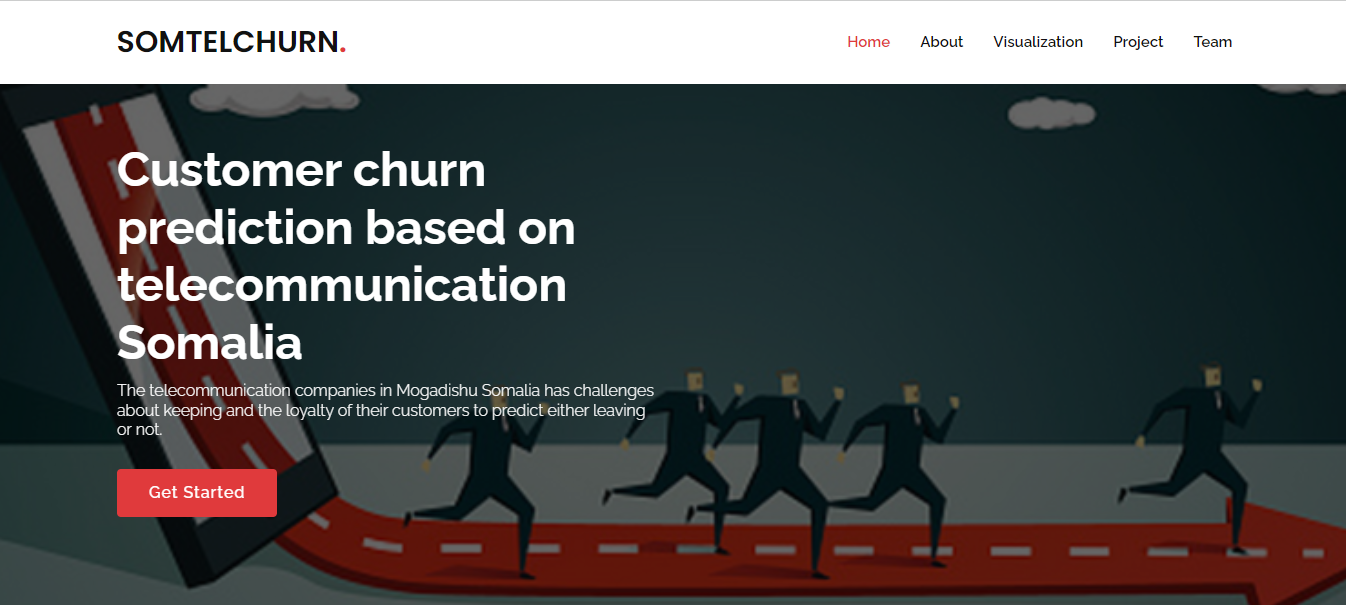
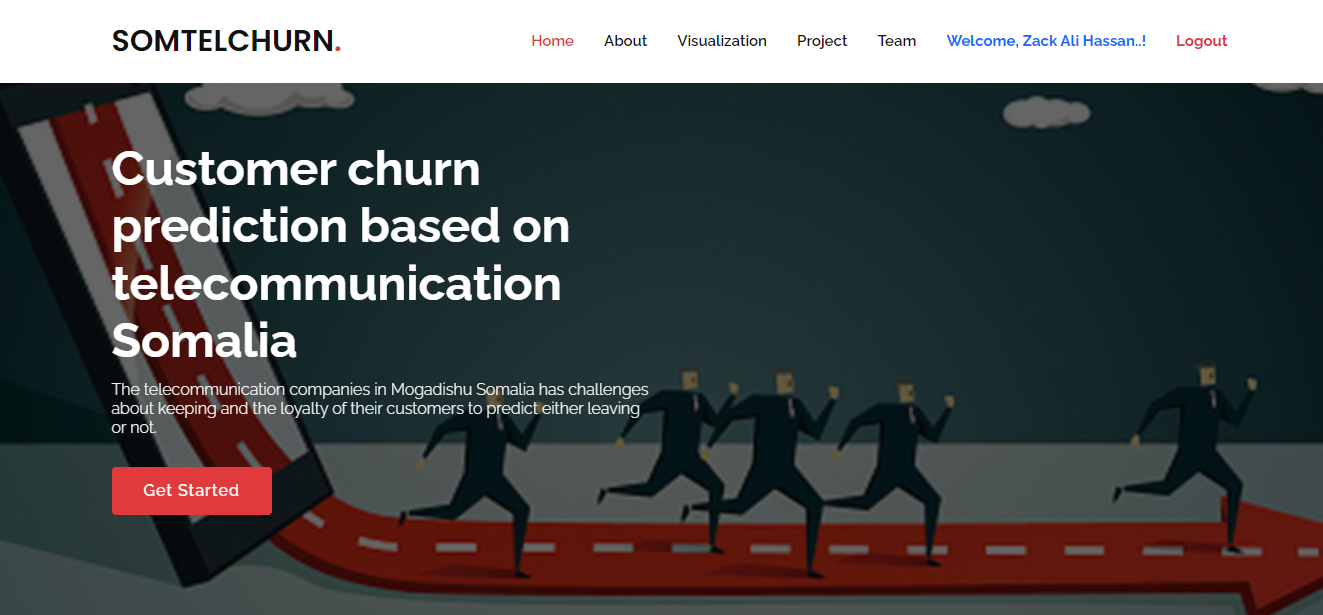
third commit in 14-may-2024

diff --git a/templates/index.html b/templates/index.html
@@ -45,6 +45,19 @@
           <li><a class="nav-link scrollto" href="#visualization">Visualization</a></li>
           <li><a class="nav-link scrollto" href="#project">Project</a></li>
           <li><a class="nav-link scrollto" href="#team">Team</a></li>
+          {% if 'username' in session %}
+          <li class="">
+            <a class="nav-link text-primary fw-bold" href="#">Welcome, {{ session['username'][0:15] }}..!</a>
+          </li>
+          <li class="">
+            <a class="nav-link text-danger fw-bold" href="{{ url_for('logout') }}"></i>
+              Logout</a>
+          </li>
+          {% else %}
+          <li class="nav-item">
+            <a class="nav-link text-primary scrollto fw-bold" href="{{ url_for('login') }}">Login</a>
+          </li>
+          {% endif %}
         </ul>
         <i class="bi bi-list mobile-nav-toggle"></i>
       </nav><!-- .navbar -->
@@ -106,88 +119,85 @@
       </div>
     </section>
     <!-- ======= Visualization Section ======= -->
-    <section id="visualization" class="visualization visual-image-container">
-      <div id="carouselExampleIndicators" class="carousel slide">
-        <div class="carousel-indicators">
-          <button type="button" data-bs-target="#carouselExampleIndicators" data-bs-slide-to="0" class="active"
-            aria-current="true" aria-label="Slide 1"></button>
-          <button type="button" data-bs-target="#carouselExampleIndicators" data-bs-slide-to="1"
-            aria-label="Slide 2"></button>
-          <button type="button" data-bs-target="#carouselExampleIndicators" data-bs-slide-to="2"
-            aria-label="Slide 3"></button>
-          <button type="button" data-bs-target="#carouselExampleIndicators" data-bs-slide-to="3"
-            aria-label="Slide 4"></button>
-          <button type="button" data-bs-target="#carouselExampleIndicators" data-bs-slide-to="4"
-            aria-label="Slide 5"></button>
-          <button type="button" data-bs-target="#carouselExampleIndicators" data-bs-slide-to="5"
-            aria-label="Slide 6"></button>
-          <button type="button" data-bs-target="#carouselExampleIndicators" data-bs-slide-to="6"
-            aria-label="Slide 7"></button>
-          <button type="button" data-bs-target="#carouselExampleIndicators" data-bs-slide-to="7"
-            aria-label="Slide 8"></button>
-          <button type="button" data-bs-target="#carouselExampleIndicators" data-bs-slide-to="8"
-            aria-label="Slide 9"></button>
-          <button type="button" data-bs-target="#carouselExampleIndicators" data-bs-slide-to="9"
-            aria-label="Slide 10"></button>
-          <button type="button" data-bs-target="#carouselExampleIndicators" data-bs-slide-to="10"
-            aria-label="Slide 11"></button>
-        </div>
-        <div class="carousel-inner visual-image">
-          <div class="carousel-item active">
-            <img src="../static/img/visualization/Accuracy Comparison of Supervised ML Algorithms.png"
-              class="d-block w-100" alt="...">
-          </div>
-          <div class="carousel-item">
-            <img src="../static/img/visualization/logistic_regression_confusion_matrix.png" class="d-block w-100"
-              alt="...">
-          </div>
-          <div class="carousel-item">
-            <img src="../static/img/visualization/svm_confusion_matrix.png" class="d-block w-100" alt="...">
-          </div>
-          <div class="carousel-item">
-            <img src="../static/img/visualization/random_forest_confusion_matrix.png" class="d-block w-100" alt="...">
-          </div>
-          <div class="carousel-item">
-            <img src="../static/img/visualization/decision_tree_confusion_matrix.png" class="d-block w-100" alt="...">
-          </div>
-          <div class="carousel-item">
-            <img src="../static/img/visualization/Churn by Monthly Charges.png" class="d-block w-100" alt="...">
-          </div>
-          <div class="carousel-item">
-            <img src="../static/img/visualization/Churn by Total Charges.png" class="d-block w-100" alt="...">
-          </div>
-          <div class="carousel-item">
-            <img src="../static/img/visualization/gender.png" class="d-block w-100" alt="...">
-          </div>
-          <div class="carousel-item">
-            <img src="../static/img/visualization/Contract.png" class="d-block w-100" alt="...">
-          </div>
-          <div class="carousel-item">
-            <img src="../static/img/visualization/SeniorCitizen.png" class="d-block w-100" alt="...">
-          </div>
-          <div class="carousel-item">
-            <img src="../static/img/visualization/PaymentMethod.png" class="d-block w-100" alt="...">
-          </div>
-        </div>
-        <button class="carousel-control-prev" type="button" data-bs-target="#carouselExampleIndicators"
-          data-bs-slide="prev">
-          <span class="carousel-control-prev-icon" aria-hidden="true"></span>
-          <span class="visually-hidden">Previous</span>
-        </button>
-        <button class="carousel-control-next" type="button" data-bs-target="#carouselExampleIndicators"
-          data-bs-slide="next">
-          <span class="carousel-control-next-icon" aria-hidden="true"></span>
-          <span class="visually-hidden">Next</span>
-        </button>
-      </div>
+    <section id="visualization" class="visualization section-bg">
       <div class="container" data-aos="fade-up">
-
-        <div class="row no-gutters">
-
-
-
+        <div class="section-title">
+          <h2>Visualization</h2>
+          <p>Customer churn prediction visualization images.</p>
         </div>
-
+        <div id="carouselExampleIndicators" class="carousel slide">
+          <div class="carousel-indicators">
+            <button type="button" data-bs-target="#carouselExampleIndicators" data-bs-slide-to="0" class="active"
+              aria-current="true" aria-label="Slide 1"></button>
+            <button type="button" data-bs-target="#carouselExampleIndicators" data-bs-slide-to="1"
+              aria-label="Slide 2"></button>
+            <button type="button" data-bs-target="#carouselExampleIndicators" data-bs-slide-to="2"
+              aria-label="Slide 3"></button>
+            <button type="button" data-bs-target="#carouselExampleIndicators" data-bs-slide-to="3"
+              aria-label="Slide 4"></button>
+            <button type="button" data-bs-target="#carouselExampleIndicators" data-bs-slide-to="4"
+              aria-label="Slide 5"></button>
+            <button type="button" data-bs-target="#carouselExampleIndicators" data-bs-slide-to="5"
+              aria-label="Slide 6"></button>
+            <button type="button" data-bs-target="#carouselExampleIndicators" data-bs-slide-to="6"
+              aria-label="Slide 7"></button>
+            <button type="button" data-bs-target="#carouselExampleIndicators" data-bs-slide-to="7"
+              aria-label="Slide 8"></button>
+            <button type="button" data-bs-target="#carouselExampleIndicators" data-bs-slide-to="8"
+              aria-label="Slide 9"></button>
+            <button type="button" data-bs-target="#carouselExampleIndicators" data-bs-slide-to="9"
+              aria-label="Slide 10"></button>
+            <button type="button" data-bs-target="#carouselExampleIndicators" data-bs-slide-to="10"
+              aria-label="Slide 11"></button>
+          </div>
+          <div class="carousel-inner visual-image">
+            <div class="carousel-item active">
+              <img src="../static/img/visualization/Accuracy Comparison of Supervised ML Algorithms.png"
+                class="d-block w-100" alt="...">
+            </div>
+            <div class="carousel-item">
+              <img src="../static/img/visualization/logistic_regression_confusion_matrix.png" class="d-block w-100"
+                alt="...">
+            </div>
+            <div class="carousel-item">
+              <img src="../static/img/visualization/svm_confusion_matrix.png" class="d-block w-100" alt="...">
+            </div>
+            <div class="carousel-item">
+              <img src="../static/img/visualization/random_forest_confusion_matrix.png" class="d-block w-100" alt="...">
+            </div>
+            <div class="carousel-item">
+              <img src="../static/img/visualization/decision_tree_confusion_matrix.png" class="d-block w-100" alt="...">
+            </div>
+            <div class="carousel-item">
+              <img src="../static/img/visualization/Churn by Monthly Charges.png" class="d-block w-100" alt="...">
+            </div>
+            <div class="carousel-item">
+              <img src="../static/img/visualization/Churn by Total Charges.png" class="d-block w-100" alt="...">
+            </div>
+            <div class="carousel-item">
+              <img src="../static/img/visualization/gender.png" class="d-block w-100" alt="...">
+            </div>
+            <div class="carousel-item">
+              <img src="../static/img/visualization/Contract.png" class="d-block w-100" alt="...">
+            </div>
+            <div class="carousel-item">
+              <img src="../static/img/visualization/SeniorCitizen.png" class="d-block w-100" alt="...">
+            </div>
+            <div class="carousel-item">
+              <img src="../static/img/visualization/PaymentMethod.png" class="d-block w-100" alt="...">
+            </div>
+          </div>
+          <button class="carousel-control-prev" type="button" data-bs-target="#carouselExampleIndicators"
+            data-bs-slide="prev">
+            <span class="carousel-control-prev-icon" aria-hidden="true"></span>
+            <span class="visually-hidden">Previous</span>
+          </button>
+          <button class="carousel-control-next" type="button" data-bs-target="#carouselExampleIndicators"
+            data-bs-slide="next">
+            <span class="carousel-control-next-icon" aria-hidden="true"></span>
+            <span class="visually-hidden">Next</span>
+          </button>
+        </div>
       </div>
     </section><!-- End About Section -->
 
@@ -216,12 +226,13 @@
                 <div class="col-lg-6 form-group">
                   <label for="" class="form-label mb-2">MonthlyCharges</label>
                   <input type="text" name="MonthlyCharges" class="form-control" id="MonthlyCharges"
-                    value="{{MonthlyCharges}}" step="any" placeholder="Monthly Charges" required oninput="validateInput(this)">
+                    value="{{MonthlyCharges}}" step="any" placeholder="Monthly Charges" required
+                    oninput="validateInput(this)">
                 </div>
                 <div class="col-lg-6 form-group">
                   <label for="" class="form-label mb-2">TotalCharges</label>
-                  <input type="text" name="TotalCharges" class="form-control" id="TotalCharges"
-                    value="{{TotalCharges}}" step="any" placeholder="Total Charges" required oninput="validateInput(this)">
+                  <input type="text" name="TotalCharges" class="form-control" id="TotalCharges" value="{{TotalCharges}}"
+                    step="any" placeholder="Total Charges" required oninput="validateInput(this)">
                 </div>
                 <div class="col-lg-6 form-group">
                   <label for="" class="form-label mb-2">Gender</label>
@@ -395,7 +406,6 @@
                   <a href=""><i class="bi bi-twitter"></i></a>
                   <a href=""><i class="bi bi-facebook"></i></a>
                   <a href=""><i class="bi bi-instagram"></i></a>
-                  <a href=""><i class="bi bi-linkedin"></i></a>
                 </div>
               </div>
               <div class="member-info">
@@ -413,7 +423,6 @@
                   <a href=""><i class="bi bi-twitter"></i></a>
                   <a href=""><i class="bi bi-facebook"></i></a>
                   <a href=""><i class="bi bi-instagram"></i></a>
-                  <a href=""><i class="bi bi-linkedin"></i></a>
                 </div>
               </div>
               <div class="member-info">
@@ -431,7 +440,6 @@
                   <a href=""><i class="bi bi-twitter"></i></a>
                   <a href=""><i class="bi bi-facebook"></i></a>
                   <a href=""><i class="bi bi-instagram"></i></a>
-                  <a href=""><i class="bi bi-linkedin"></i></a>
                 </div>
               </div>
               <div class="member-info">
@@ -449,7 +457,6 @@
                   <a href=""><i class="bi bi-twitter"></i></a>
                   <a href=""><i class="bi bi-facebook"></i></a>
                   <a href=""><i class="bi bi-instagram"></i></a>
-                  <a href=""><i class="bi bi-linkedin"></i></a>
                 </div>
               </div>
               <div class="member-info">
@@ -506,14 +513,13 @@
 
       <div class="me-md-auto text-center text-md-start">
 
-        <div class="credits">Developed by <a href="#hero">SOMTELCHURN</a>
+        <div class="credits">Developed by <a href="#hero">SOMTELCHURN?????????</a>
         </div>
       </div>
       <div class="social-links text-center text-md-end pt-3 pt-md-No">
         <a href="#" class="twitter"><i class="bx bxl-twitter"></i></a>
         <a href="#" class="facebook"><i class="bx bxl-facebook"></i></a>
         <a href="#" class="instagram"><i class="bx bxl-instagram"></i></a>
-        <a href="#" class="linkedin"><i class="bx bxl-linkedin"></i></a>
       </div>
     </div>
   </footer><!-- End Footer -->
@@ -521,7 +527,7 @@
   <a href="#" class="back-to-top d-flex align-items-center justify-content-center"><i
       class="bi bi-arrow-up-short"></i></a>
 
-     
+
   <!-- Vendor JS Files -->
   <script src="{{ url_for('static', filename ='vendor/purecounter/purecounter_vanilla.js') }}"></script>
   <script src="{{ url_for('static', filename ='vendor/aos/aos.js') }}"></script>
@@ -533,7 +539,7 @@
   <!-- Template Main JS File -->
   <script src="{{ url_for('static', filename ='js/main.js') }}"></script>
   <script src="{{ url_for('static', filename ='js/valid.js') }}"></script>
- 
+
 </body>
 
 </html>

diff --git a/templates/login.html b/templates/login.html
@@ -48,7 +48,7 @@
                                         <input type="password" name="password" id="password" class="form-control"
                                             placeholder="Enter password" required>
                                     </div>
-                                    <div class="d-flex align-items-center justify-content-between mb-4">
+                                    <!-- <div class="d-flex align-items-center justify-content-between mb-4">
                                         <div class="form-check">
                                             <input class="form-check-input info" type="checkbox" value=""
                                                 id="flexCheckChecked" checked>
@@ -56,21 +56,12 @@
                                                 Remember me
                                             </label>
                                         </div>
-                                    </div>
-                                    <!-- {% with messages = get_flashed_messages() %}
-                                    {% if messages %}
-                                    {% for message in messages %}
-                                    <div class="alert alert-warning" role="alert">
-                                        {{ message }}
-                                    </div>
-                                    {% endfor %}
-                                    {% endif %}
-                                    {% endwith %} -->
-                                    <button class="btn btn-info w-100 py-8 fs-0 fw-bold mb-4 rounded-2"
+                                    </div> -->
+                                    <button class="btn btn-primary w-100 py-8 fs-0 fw-bold mb-4 rounded-2"
                                         type="submit">Log in</button>
                                     <div class="d-flex justify-content-between">
                                         <p class="fs-0 mb-0 fw-bold">I don't have an Account?</p>
-                                        <a class="text-info fw-bold ms-2" href="{{ url_for('signup') }}">Create an account</a>
+                                        <a class="text-primary fw-bold ms-2" href="{{ url_for('signup') }}">Create an account</a>
                                     </div>
                                 </form>
                             </div>

diff --git a/templates/register.html b/templates/register.html
@@ -48,20 +48,12 @@
                     <label for="exampleInputPassword1" class="form-label">Password</label>
                     <input type="password" class="form-control" id="password" name="password" placeholder = "Enter password" required>
                   </div>
-                  <!-- {% with messages = get_flashed_messages() %}
-                  {% if messages %}
-                      {% for message in messages %}
-                          <div class="alert alert-warning" role="alert">
-                              {{ message }}
-                          </div>
-                      {% endfor %}
-                  {% endif %}
-              {% endwith %} -->
-                  <button class="btn btn-info w-100 py-8 fs-0 fw-bold mb-4 rounded-2"
+                 
+                  <button class="btn btn-primary w-100 py-8 fs-0 fw-bold mb-4 rounded-2"
                   type="submit">Sign In</button>
-                  <div class="d-flex align-items-center justify-content-center">
+                  <div class="d-flex justify-content-between">
                     <p class="fs-0 mb-0 fw-bold">Already have an Account?</p>
-                    <a class="text-info fw-bold ms-2" href="{{ url_for('login') }}" >Log In</a>
+                    <a class="text-primary fw-bold ms-2" href="{{ url_for('login') }}" >Log In</a>
                   </div>
                 </form>
               </div>

diff --git a/static/css/index.css b/static/css/index.css
@@ -486,28 +486,13 @@ section {
   transform: skewY(-3deg);
 }
 /* Visualization */
-.visual-image-container {
-  position: relative;
-  display: inline-block;
-  max-width: 100%; /* Limiting the maximum width to 50% */
-  height: auto; /* Fixed height for the container */
+.visual-image img {
+  height: 900px; /* Fixed height for all images */
+  object-fit: cover; /* Cover the area without distorting aspect ratio */
 }
 
-.visual-image {
-  display: block;
-  width: 100%; /* Make the image fill the container */
-  height: auto; /* Maintain aspect ratio */
-}
 
-.visual-image::after {
-  content: "";
-  position: absolute;
-  top: 0;
-  left: 0;
-  width: 100%;
-  height: 100%;
-  background-color: rgba(0, 0, 0, 0.5); /* Black color with 50% opacity */
-}
+
 
 /*--------------------------------------------------------------
 # About
@@ -605,6 +590,7 @@ section {
   height: 280px;
   position: relative;
   overflow: hidden;
+  object-fit: cover;
 }
 
 .team .member .social {

diff --git a/app.py b/app.py
@@ -76,9 +76,13 @@ def signup():
     return render_template('register.html')
 
 def is_valid_name(name):
-    # Add your validation logic here, for example:
     # Name should contain only alphabets and spaces
     return bool(re.match("^[a-zA-Z ]+$", name))
+
+@app.route('/logout')
+def logout():
+    session.pop('username', None)
+    return redirect(url_for('login'))
 
 @app.route('/predict', methods=['GET', 'POST'])
 def predict():
